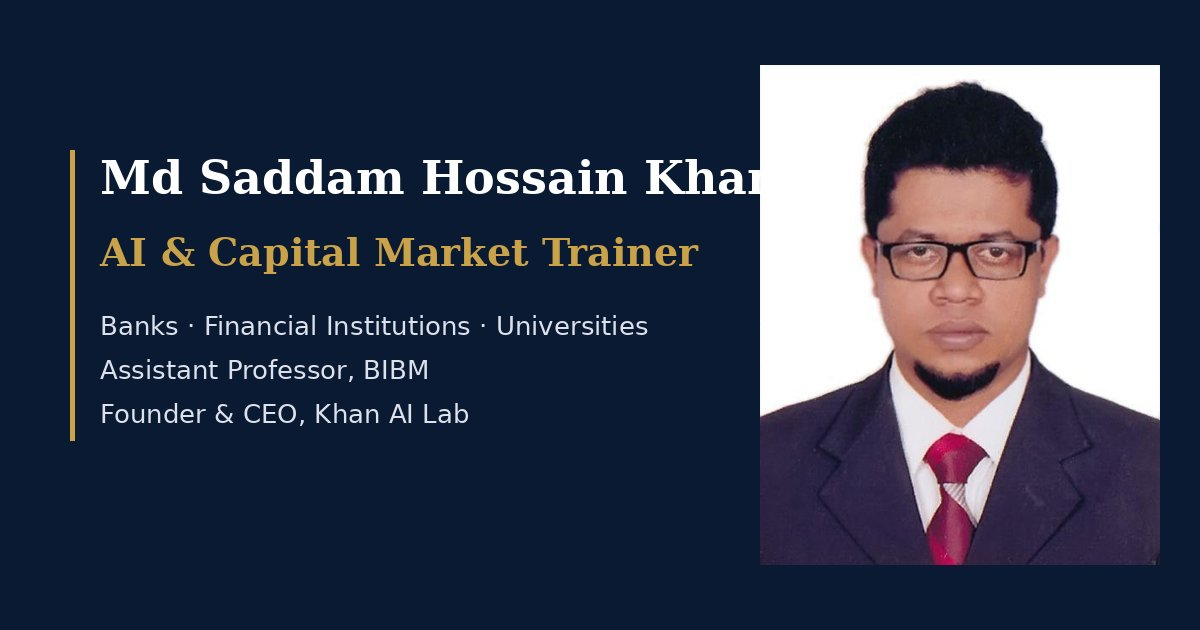
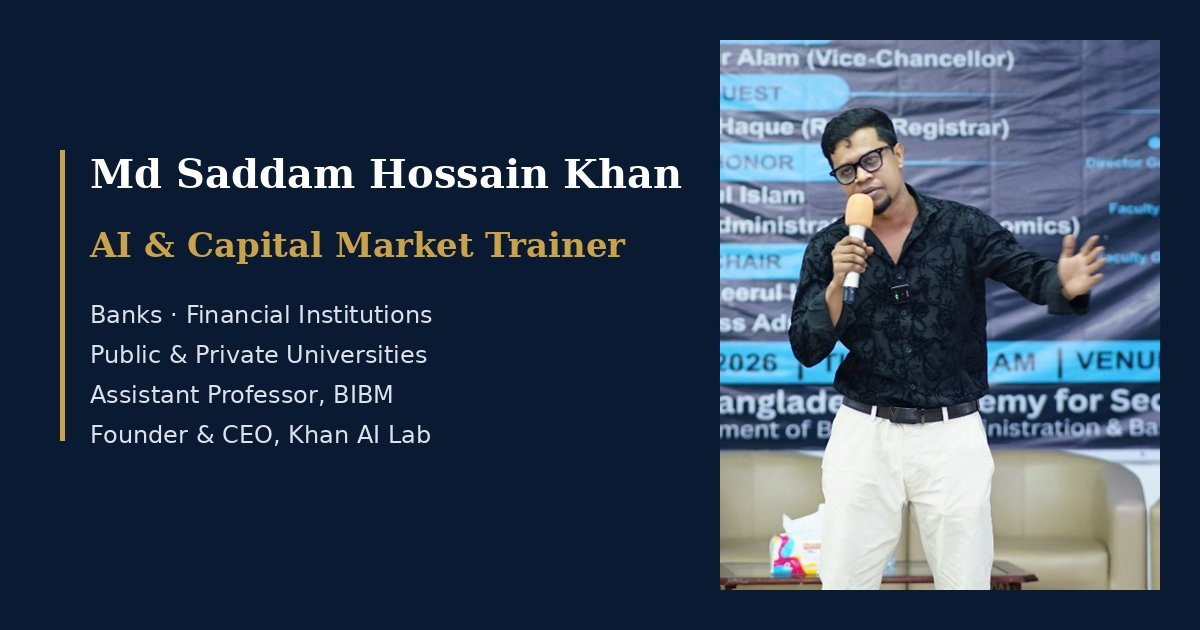
Use seminar photos for portrait, About section and gallery
Claude-Session: https://claude.ai/code/session_012BNUMRfMGNQiKpgAYYD1Tw

diff --git a/index.html b/index.html
@@ -82,7 +82,7 @@
       </div>
       <div class="hero__photo reveal">
         <div class="photo-frame">
-          <img src="assets/img/saddam-khan.jpg" alt="Portrait of Md Saddam Hossain Khan, AI and capital market trainer" width="472" height="591">
+          <img src="assets/img/saddam-khan.jpg" alt="Md Saddam Hossain Khan speaking at a capital market seminar" width="560" height="700">
         </div>
         <div class="badge badge--a"><strong>8+</strong><span>years in finance education</span></div>
         <div class="badge badge--b"><strong>7</strong><span>universities trained</span></div>
@@ -106,6 +106,10 @@
       <div class="reveal">
         <p class="eyebrow">About</p>
         <h2>A trainer who speaks both <em>finance</em> and <em>AI</em>.</h2>
+        <figure class="about__photo">
+          <img src="assets/img/gallery/bu-capital-market-audience.jpg" alt="Md Saddam Hossain Khan addressing a packed auditorium of students and faculty" loading="lazy" width="1400" height="933">
+          <figcaption>Capital Market Insights seminar, Bangladesh University, June 2026</figcaption>
+        </figure>
       </div>
       <div class="about__body reveal">
         <p>For over eight years I have taught and trained across universities, regulatory academies and the banking sector. At the <strong>Bangladesh Academy for Securities Markets (BASM)</strong>, the academic wing of BSEC, I trained CFOs, Independent Directors, Authorized Representatives of TREC holders, investors and university students. Today I serve as <strong>Assistant Professor and full-time trainer at the Bangladesh Institute of Bank Management (BIBM)</strong>.</p>
@@ -213,13 +217,16 @@
       </div>
       <!-- To add a photo: put the file in assets/img/gallery/ and set data-img="assets/img/gallery/yourfile.jpg" on the matching tile. -->
       <div class="gallery">
+        <figure class="tile tile--wide" data-img="assets/img/gallery/bu-capital-market-audience.jpg"><figcaption><strong>Bangladesh University</strong><span>Capital Market Insights · June 2026</span></figcaption></figure>
+        <figure class="tile" data-img="assets/img/gallery/bu-capital-market-speaking.jpg"><figcaption><strong>On Stage</strong><span>BASM × BU Business Club</span></figcaption></figure>
+        <figure class="tile" data-img="assets/img/gallery/bu-capital-market-podium.jpg"><figcaption><strong>Keynote Session</strong><span>Bangladesh University</span></figcaption></figure>
         <figure class="tile tile--wide" data-img=""><figcaption><strong>Jahangirnagar University</strong><span>Seminar · AI in Business Research</span></figcaption></figure>
         <figure class="tile" data-img=""><figcaption><strong>SUST</strong><span>Capital Market Workshop</span></figcaption></figure>
         <figure class="tile" data-img=""><figcaption><strong>Islamic University, Kushtia</strong><span>Financial Market Workshop</span></figcaption></figure>
         <figure class="tile" data-img=""><figcaption><strong>JUST</strong><span>Financial Market Workshop</span></figcaption></figure>
         <figure class="tile" data-img=""><figcaption><strong>HSTU</strong><span>Financial Market Workshop</span></figcaption></figure>
         <figure class="tile tile--wide" data-img=""><figcaption><strong>BIBM</strong><span>Training for Banking Professionals</span></figcaption></figure>
-        <figure class="tile" data-img=""><figcaption><strong>Leading University</strong><span>Capital Market Seminar</span></figcaption></figure>
+        <figure class="tile tile--wide" data-img=""><figcaption><strong>Leading University</strong><span>Capital Market Seminar</span></figcaption></figure>
         <figure class="tile tile--wide" data-img=""><figcaption><strong>National University</strong><span>Capital Market Seminar</span></figcaption></figure>
       </div>
     </div>

diff --git a/assets/css/style.css b/assets/css/style.css
@@ -61,7 +61,7 @@ p { margin: 0 0 1em; }
 .hero__trust { list-style: none; padding: 0; margin: 0; display: flex; flex-wrap: wrap; gap: 10px; }
 .hero__trust li { border: 1px solid rgba(255, 255, 255, .18); border-radius: 999px; padding: .35em 1em; font-size: .82rem; color: rgba(255, 255, 255, .75); letter-spacing: .04em; }
 .hero__photo { position: relative; justify-self: center; max-width: 400px; width: 100%; }
-.photo-frame { position: relative; border-radius: 200px 200px var(--radius) var(--radius); overflow: hidden; background: var(--white); border: 6px solid rgba(201, 162, 74, .9); box-shadow: 0 40px 80px -30px rgba(0, 0, 0, .6); }
+.photo-frame { position: relative; border-radius: 200px 200px var(--radius) var(--radius); overflow: hidden; background: var(--navy-2); border: 6px solid rgba(201, 162, 74, .9); box-shadow: 0 40px 80px -30px rgba(0, 0, 0, .6); }
 .photo-frame img { width: 100%; height: auto; }
 .hero__photo::before { content: ""; position: absolute; inset: -22px -22px 22px 22px; border: 1px solid rgba(201, 162, 74, .35); border-radius: 210px 210px 24px 24px; z-index: -1; }
 .badge { position: absolute; background: var(--white); color: var(--navy); border-radius: 14px; padding: .7em 1em; box-shadow: var(--shadow); display: flex; align-items: center; gap: .6em; font-size: .8rem; line-height: 1.25; max-width: 210px; }
@@ -199,3 +199,8 @@ p { margin: 0 0 1em; }
   .badge { font-size: .72rem; padding: .5em .8em; }
   .badge strong { font-size: 1.3rem; }
 }
+
+/* About photo */
+.about__photo { margin: 2em 0 0; }
+.about__photo img { border-radius: var(--radius); box-shadow: var(--shadow); aspect-ratio: 3 / 2; object-fit: cover; width: 100%; }
+.about__photo figcaption { font-size: .82rem; color: var(--muted); margin-top: .7em; }
